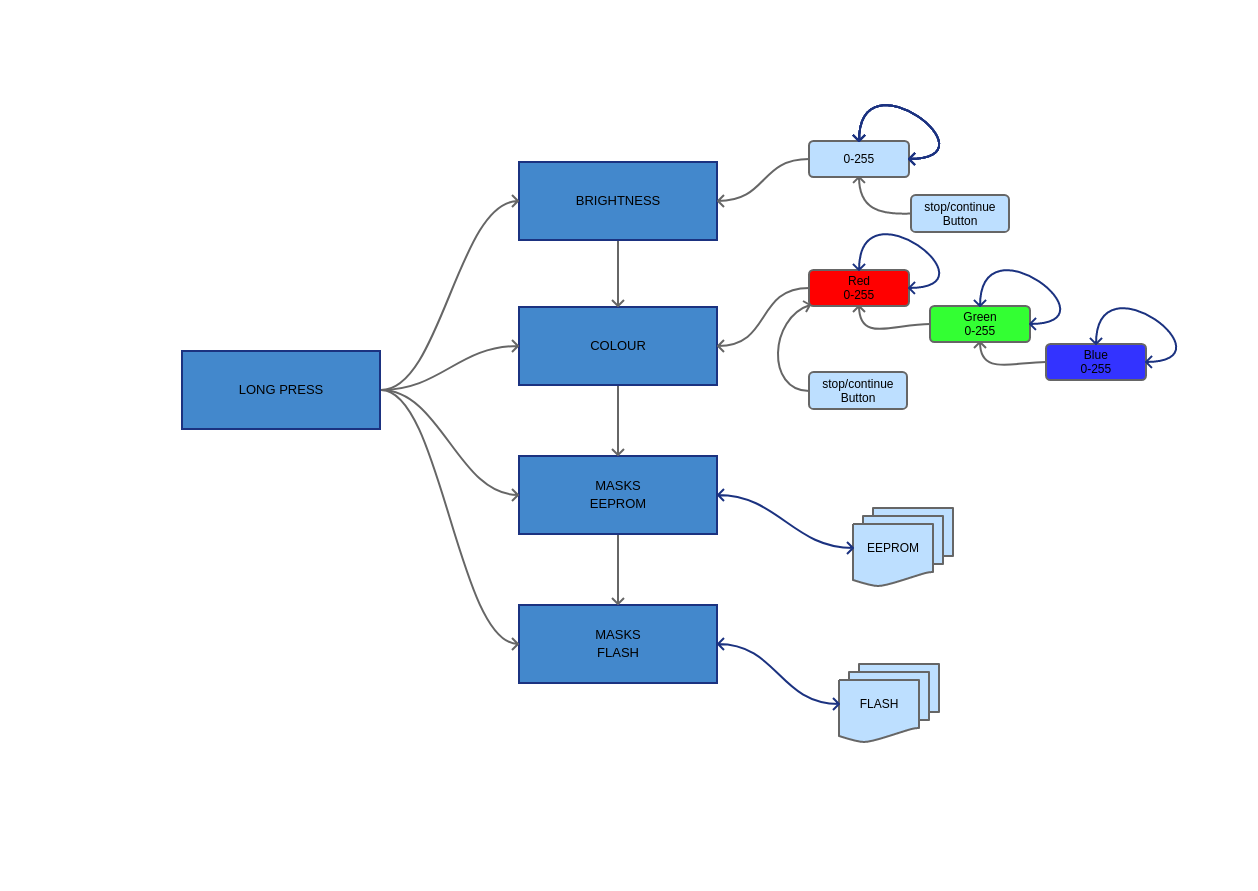
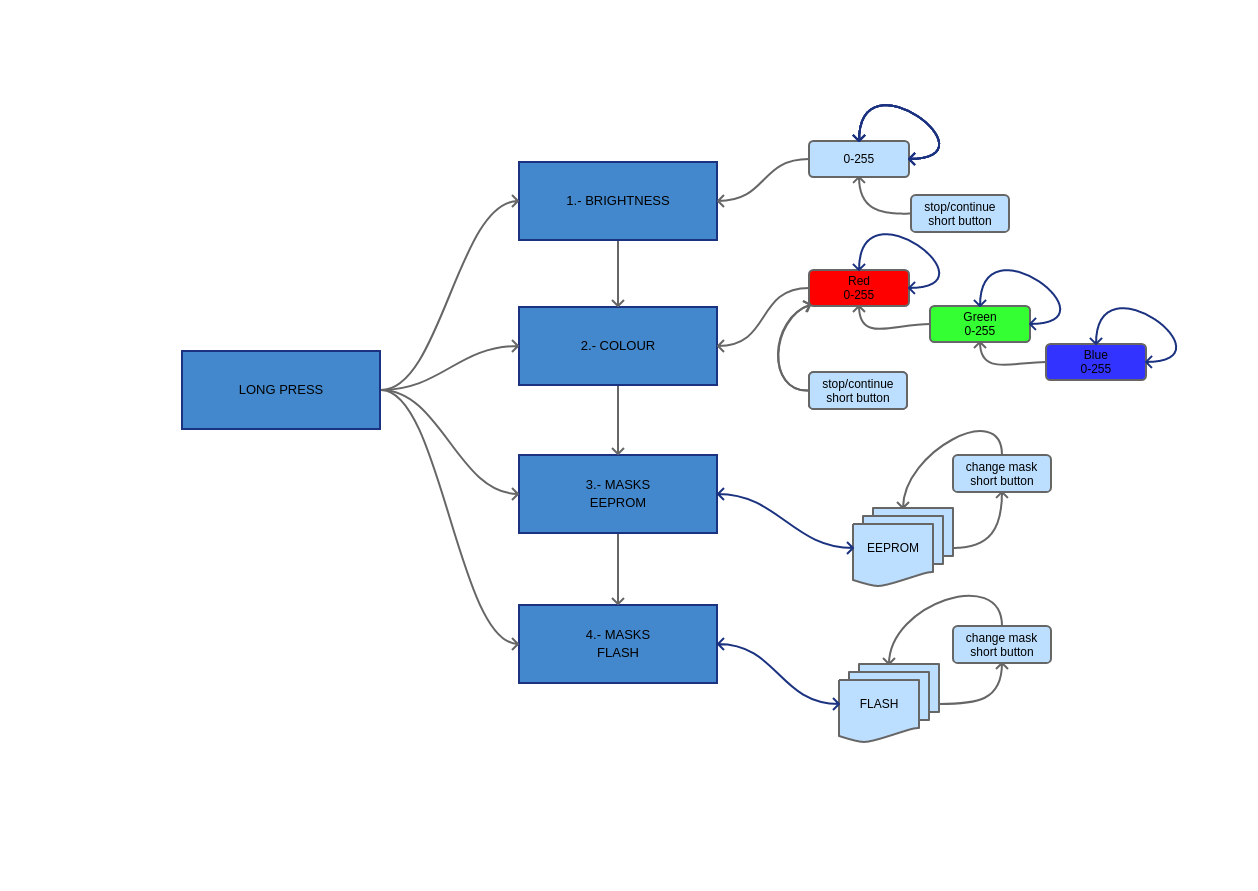
Flow button

diff --git a/Arduino/Led2rom.cpp b/Arduino/Led2rom.cpp
@@ -338,8 +338,8 @@ void Led2rom::long_press(){
   /*0 main menu
       * 1 choose britghtness
       * 2 choose colour
-      * 3 select masc flash
-      * 4
+      * 3 select masc eeprom
+      * 4 select masc flash
       * */
   menu +=1;
   if(menu>=MAXMENU+1) menu=0;
